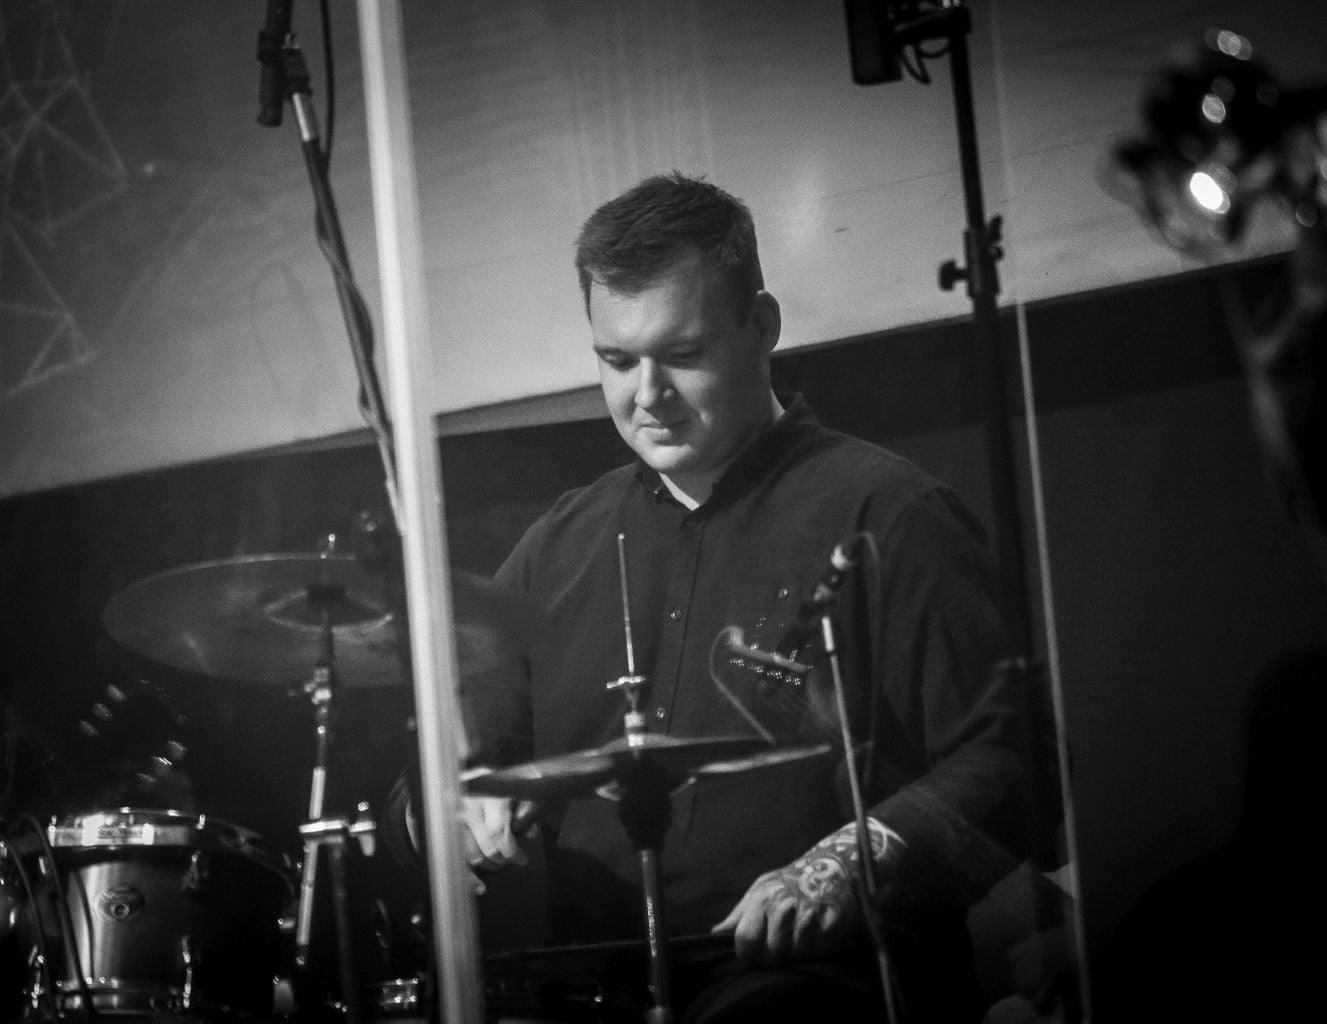
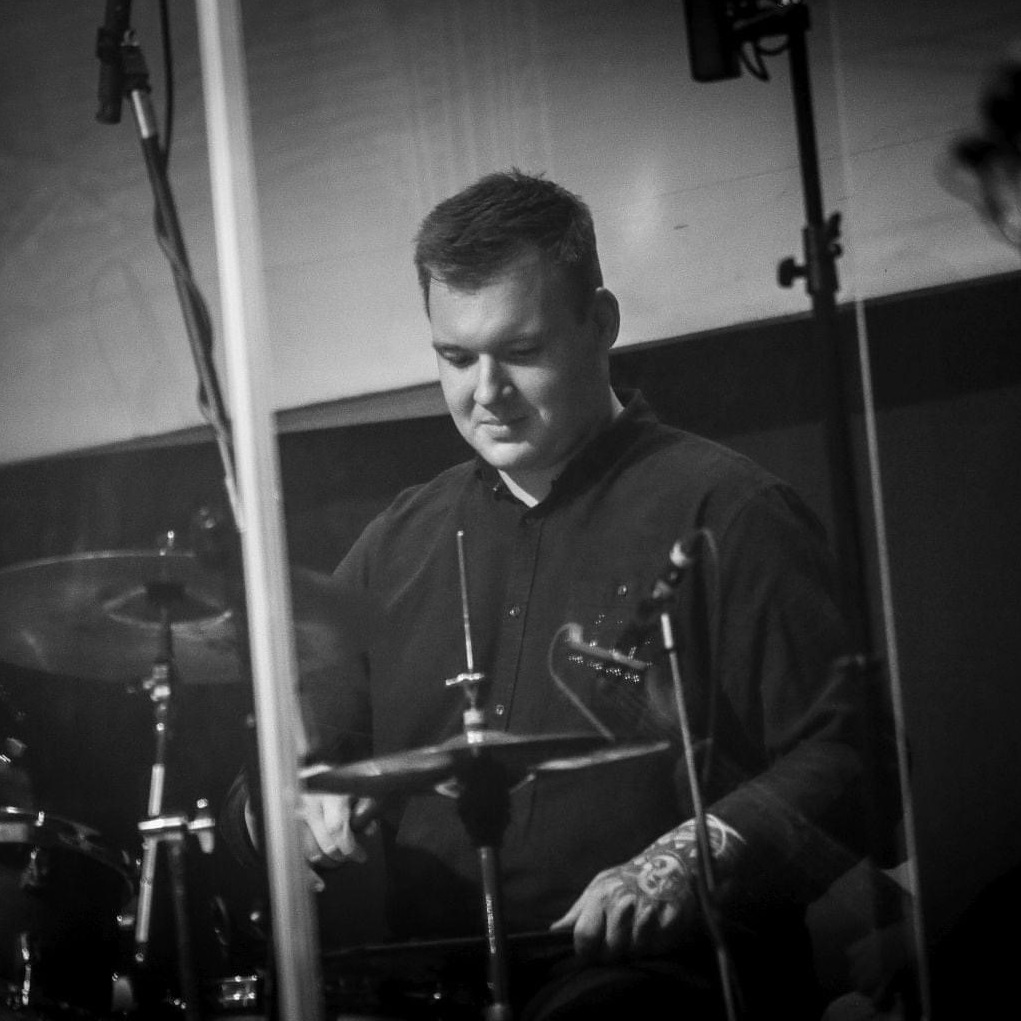
add style to about

diff --git a/src/components/about/about.css b/src/components/about/about.css
@@ -1,0 +1,71 @@
+.about__container {
+    display: grid;
+    grid-template-columns: 35% 50%;
+    gap: 15%;
+}
+
+.about__me {
+    width: 100%;
+    aspect-ratio: 1/1;
+    border-radius: 2rem;
+    background: linear-gradient(
+        45deg,
+        transparent,
+        var(--color-primary),
+        transparent
+        );
+    display: grid;
+    place-items: center;
+}
+
+.about__me-image {
+    border-radius: 2rem;
+    overflow: hidden;
+    transform: rotate(10deg);
+    transition: var(--transition);
+}
+
+.about__me-image:hover {
+    transform: rotate(0deg);
+}
+
+.about__cards {
+    display: grid;
+    grid-template-columns: repeat(3, 1fr);
+    gap: 1.5rem;
+}
+
+.about__card {
+    background: var(--color-bg-variant);
+    border: 1px solid transparent;
+    border-radius: 1rem;
+    padding: 2rem;
+    text-align: center;
+    transition: var(--transition);
+}
+
+.about__card:hover {
+    background: transparent;
+    border-color: var(--color-primary-variant);
+    cursor: default;
+}
+
+.about__icon {
+    color: var(--color-primary);
+    font-size: 1.4;
+    margin-bottom: 1rem;
+}
+
+.about__card h5 {
+    font-size: 0.95rem;
+}
+
+.about__card small {
+    font-size: 0.7rem;
+    color: var(--color-light);
+}
+
+.about__content p {
+    margin: 2rem 0 2.6rem;
+    color: var(--color-light);
+}
